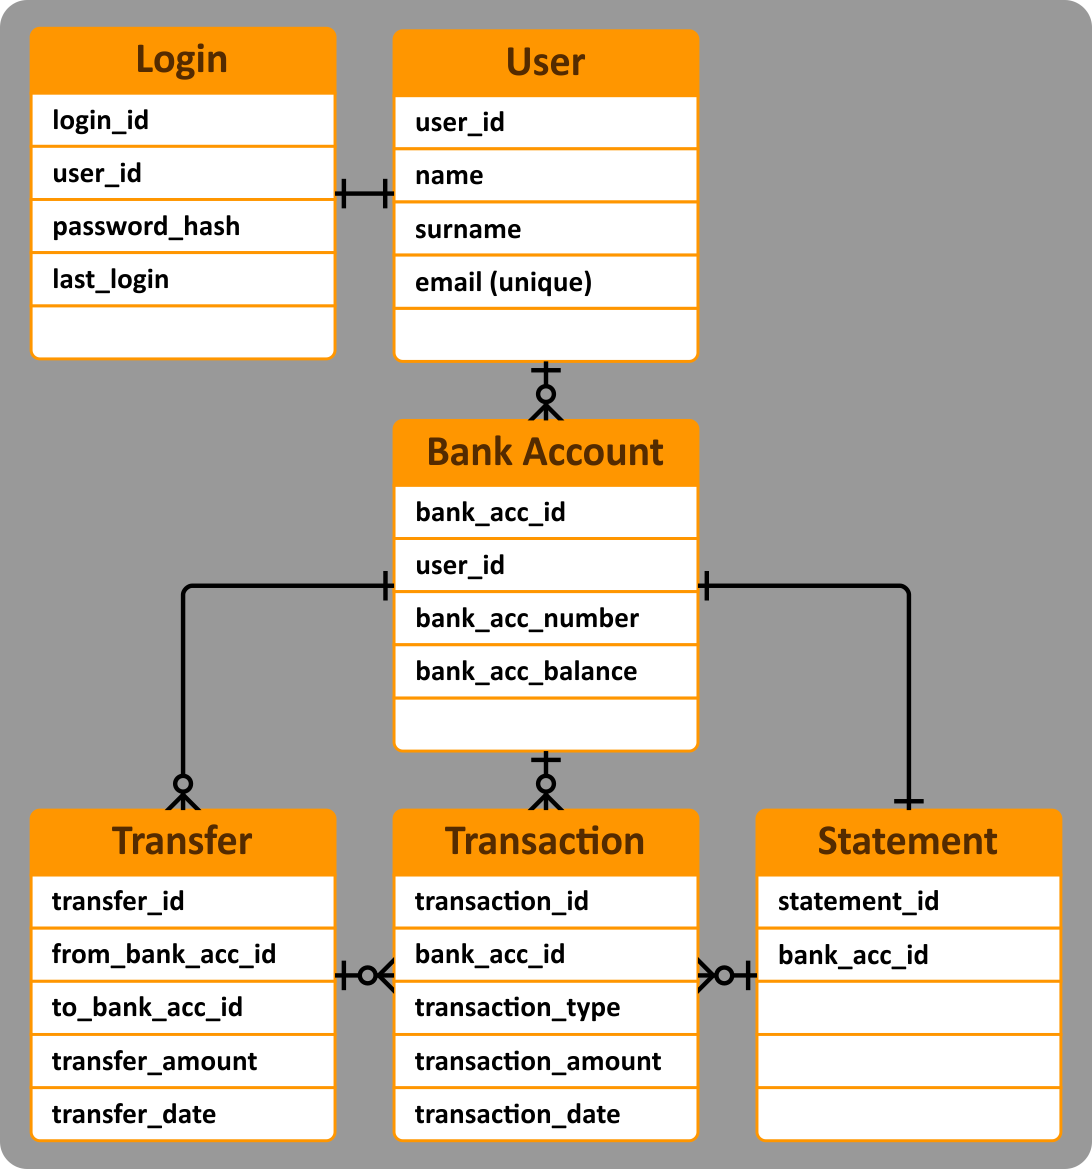
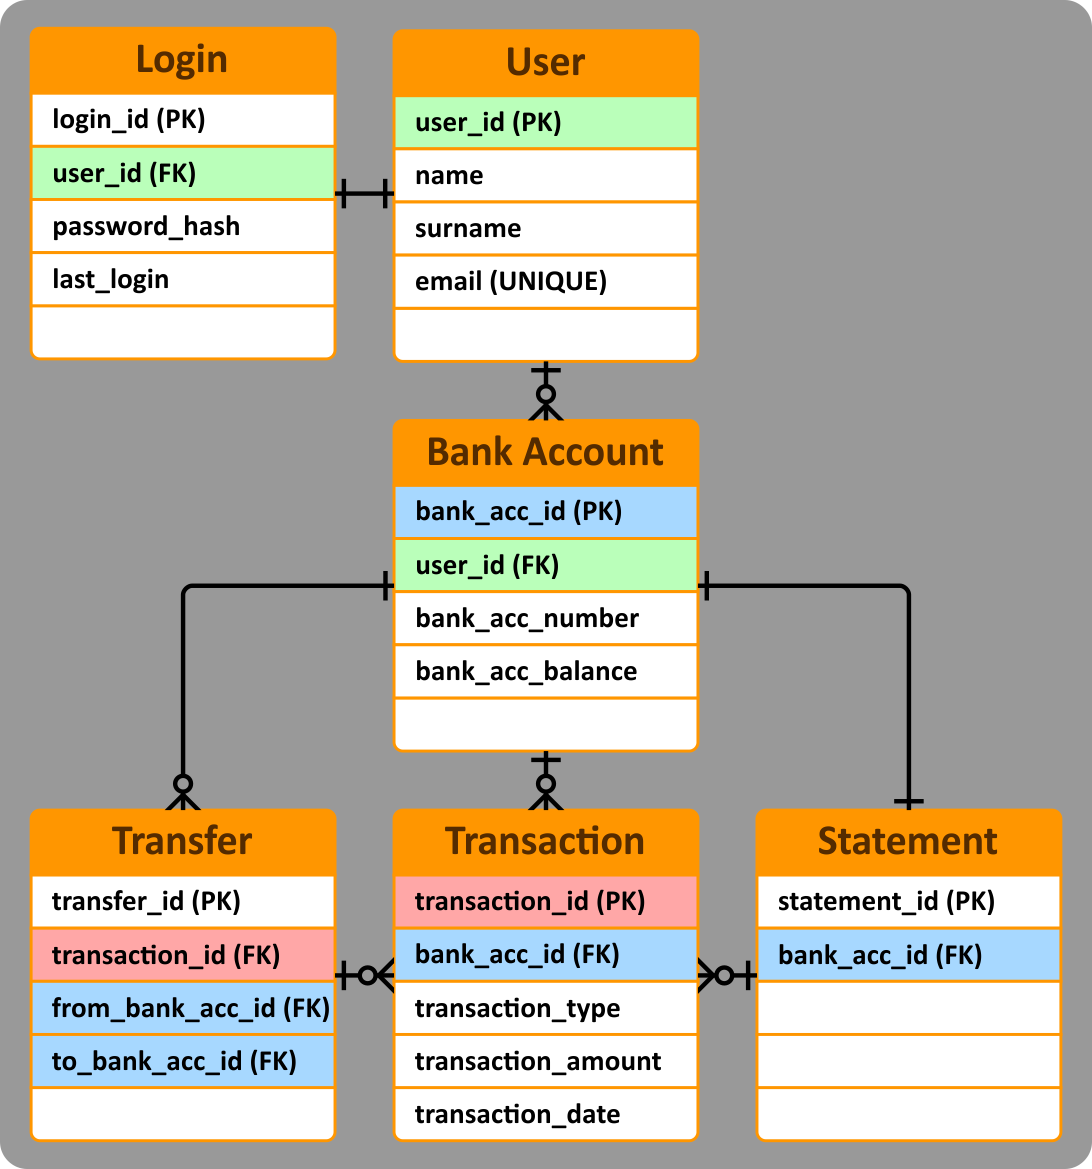
transfer done, but gotta check balance to fix now

diff --git a/BankAppFXMaven/src/main/java/in/BankAppFXMaven/view/TransferScene.java b/BankAppFXMaven/src/main/java/in/BankAppFXMaven/view/TransferScene.java
@@ -1,8 +1,16 @@
 package in.BankAppFXMaven.view;
 
+import java.sql.Date;
+import java.sql.Timestamp;
+import java.text.ParseException;
+import java.text.SimpleDateFormat;
+
 import in.BankAppFXMaven.controller.DatabaseController;
 import in.BankAppFXMaven.model.BankAccount;
 import in.BankAppFXMaven.model.LoggedUser;
+import in.BankAppFXMaven.model.Statement;
+import in.BankAppFXMaven.model.Transaction;
+import in.BankAppFXMaven.model.Transfer;
 import in.BankAppFXMaven.model.User;
 import javafx.application.Application;
 import javafx.scene.Scene;
@@ -213,6 +221,7 @@ public class TransferScene extends Application {
 
 					// get recipient and check if valid email
 					String recipientEmail = toTxtInput.getText();
+					dbController = DatabaseController.getInstance();
 
 					// get user by email
 					User recipientUser = dbController.getUserByEmail(recipientEmail);
@@ -224,25 +233,84 @@ public class TransferScene extends Application {
 
 						LoggedUser.getInstance().getBankAccount();
 
-						int transfererResponse = dbController.updateAccountBalance(-transferAmountInput,
+						// subtract from sender in the database
+						int senderResponse = dbController.updateAccountBalance(-transferAmountInput,
 								loggedUser.getUser());
-						//do db transaction entry of /\
+						// do db transaction entry of /\
+						// add to db transfer
 
-						if (transfererResponse == 1) {
+						if (senderResponse == 1) {
+							// add to recipient in the database
 							int recipientResponse = dbController.updateAccountBalance(transferAmountInput,
 									recipientUser);
-							//do db transaction entry of /\
 
 							if (recipientResponse == 1) {
+
+								Timestamp timeStamp = new java.sql.Timestamp(System.currentTimeMillis());
+
+//								timeStamp = convertTimeStampToCorrectFormat(timeStamp);
+
+								// create 2 transaction entries, 1 negative and 1 positive, to show each user
+								Transaction newSenderTransaction = new Transaction(
+										loggedUser.getBankAccount().getBankAccID(), "transfer", timeStamp,
+										-transferAmountInput);
+								Transaction newReceiverTransaction = new Transaction(RecipientBankAcc.getBankAccID(),
+										"transfer", timeStamp, transferAmountInput);
+
+								// upload sender & receiver transaction to database
+								int transactionResponse1 = dbController.addNewTransaction(newSenderTransaction);
+								int transactionResponse2 = dbController.addNewTransaction(newReceiverTransaction);
+
+								if (transactionResponse1 == 0) {
+									System.out.println("Couldn't add transaction entry to database.");
+								}
+								if (transactionResponse2 == 0) {
+									System.out.println("Couldn't add transaction entry to database.");
+								}
+
+								// download updated bank account after transfer
+								loggedUser
+										.setBankAccount(dbController.getBankAccByUserID(loggedUser.getUser().getId()));
+
+								// download updated transaction after transfer
+								Statement statement = loggedUser.getStatement();
+								statement.setTransactionList(dbController.getStatementTransactionList(statement));
+								loggedUser.setStatement(statement);
+
+								// get transaction where from_bank_acc_id is
+								// loggedUser.getBankAccount().getBankAccID() and date is timeStamp
+								Transaction doneSenderTransaction = dbController
+										.getTransaction(loggedUser.getBankAccount().getBankAccID(), timeStamp);
 								
-								toTxtInput.clear();
+								// get transactionId to add to new db transfer entry
+								Transfer newSenderTransfer = new Transfer(doneSenderTransaction.getTransactionID(),
+										loggedUser.getBankAccount().getBankAccID(), RecipientBankAcc.getBankAccID());
 								
-								Alert alert = new Alert(Alert.AlertType.INFORMATION);
-								alert.setTitle("Transference successful.");
-								alert.setHeaderText(null);
-								alert.setContentText("Transference successfull. You have transered €"
-										+ transferAmountInput + " to " + recipientEmail + ".");
-								alert.showAndWait();
+								
+								Transaction doneReceiverTransaction = dbController
+										.getTransaction(RecipientBankAcc.getBankAccID(), timeStamp);
+								
+								
+								Transfer newReceiverTransfer = new Transfer(doneReceiverTransaction.getTransactionID(),
+										loggedUser.getBankAccount().getBankAccID(), RecipientBankAcc.getBankAccID());
+								
+								
+								// add transfers entries of the transactions of this specific date
+								int transferSenderResponse = dbController.addNewTransfer(newSenderTransfer);
+								int transferReceiverResponse = dbController.addNewTransfer(newReceiverTransfer);
+
+								if (transferSenderResponse == 1 && transferReceiverResponse == 1) {
+									// clear the transfer amount input and show success dialog
+									toTxtInput.clear();
+									transferAmountTxtInput.clear();
+
+									Alert alert = new Alert(Alert.AlertType.INFORMATION);
+									alert.setTitle("Transference successful.");
+									alert.setHeaderText(null);
+									alert.setContentText("Transference successfull. You have transered €"
+											+ transferAmountInput + " to " + recipientEmail + ".");
+									alert.showAndWait();
+								}
 
 							} else {
 								Alert alert = new Alert(Alert.AlertType.ERROR);
@@ -308,4 +376,33 @@ public class TransferScene extends Application {
 		primaryStage.show();
 	}
 
+//	/**
+//	 * Java creates the Timestamp as "2024-08-03 10:04:36.59" (Counting
+//	 * milliseconds) this method converts not to have milliseconds since it's this
+//	 * way that the MySql gets stored, not to have error when trying to retrieve
+//	 * with milliseconds
+//	 * 
+//	 * @return formatted Timestamp
+//	 */
+//	public Timestamp convertTimeStampToCorrectFormat(Timestamp timestamp) {
+//		// Format the timestamp to the desired format
+//		SimpleDateFormat sdf = new SimpleDateFormat("yyyy-MM-dd HH:mm:ss");
+//		String formattedDate = sdf.format(timestamp);
+//
+//		return timestamp = convertStringToTimestamp(formattedDate);
+//	}
+//
+//	public static Timestamp convertStringToTimestamp(String dateString) {
+//		SimpleDateFormat dateFormat = new SimpleDateFormat("yyyy-MM-dd HH:mm:ss");
+//		try {
+//			// Parse the input string to a java.util.Date object
+//			java.util.Date parsedDate = dateFormat.parse(dateString);
+//			// Convert java.util.Date to java.sql.Timestamp
+//			return new Timestamp(parsedDate.getTime());
+//		} catch (ParseException e) {
+//			e.printStackTrace();
+//			System.out.println("Couldn't parse the date string.");
+//			return null;
+//		}
+//	}
 }

diff --git a/BankAppFXMaven/src/main/java/in/BankAppFXMaven/model/DatabaseDAO.java b/BankAppFXMaven/src/main/java/in/BankAppFXMaven/model/DatabaseDAO.java
@@ -10,6 +10,7 @@ import java.sql.ResultSet;
 import java.sql.SQLException;
 import java.sql.Statement;
 import java.sql.Timestamp;
+import java.text.SimpleDateFormat;
 import java.util.ArrayList;
 import java.util.Optional;
 import java.util.Properties;
@@ -204,7 +205,7 @@ public class DatabaseDAO {
 
 	public User getUserByEmail(String email) {
 
-		User user = new User();
+		User user = null;
 		try {
 			rs = st.executeQuery("SELECT * FROM user WHERE email = '" + email + "';");
 			rs.next();
@@ -412,7 +413,7 @@ public class DatabaseDAO {
 	}
 
 	/**
-	 * @param userId      of user who will get new surname
+	 * @param userId         of user who will get new surname
 	 * @param userNewSurname to replace old surname
 	 * @return 1 if successful, 0 if unsuccessful
 	 */
@@ -494,11 +495,57 @@ public class DatabaseDAO {
 					statementList.add(transaction);
 				}
 			} while (rs.next());
-		} catch (Exception e) {
+		} catch (SQLException e) {
 			System.out.println(e.getMessage());
 		}
 
 		return statementList;
+	}
+
+	/**
+	 * @param fromBankAccId to get transaction from
+	 * @param timeStampDate to get specific transaction
+	 * @return specific transaction
+	 */
+	public Transaction getTransaction(int fromBankAccId, Timestamp timeStampDate) {
+
+		SimpleDateFormat sdf = new SimpleDateFormat("yyyy-MM-dd HH:mm:ss");
+		String formattedDate = sdf.format(timeStampDate);
+		
+		Transaction transaction = null;
+		String query = "SELECT * FROM transaction WHERE bank_acc_id = " + fromBankAccId
+				+ " AND transaction_date = '" + formattedDate + "';";
+
+		rs = executeQueryRS(query);
+
+		try {
+			if (!rs.wasNull()) {
+				transaction = new Transaction();
+				transaction.setTransactionID(rs.getInt("transaction_id"));
+				transaction.setBankAccID(rs.getInt("bank_acc_id"));
+				transaction.setTransactionType(rs.getString("transaction_type"));
+				transaction.setTransactionAmount(rs.getDouble("transaction_amount"));
+				transaction.setTransactionDate(rs.getTimestamp("transaction_date"));
+			}
+		} catch (SQLException e) {
+			System.out.println(e.getMessage());
+		}
+		return transaction;
+	}
+
+	/**
+	 * @param newTransfer to insert to database
+	 * @return 1 if successful, 0 if not successful
+	 */
+	public int addNewTransfer(Transfer newTransfer) {
+
+		String query = "INSERT INTO transfer (transaction_id, from_bank_acc_id, to_bank_acc_id) VALUES ("
+				+ newTransfer.getTransactionID() + ", " + newTransfer.getFromBankAcc() + ", "
+				+ newTransfer.getToBankAcc() + ");";
+
+		int response = executeUpdateRS(query);
+		
+		return response;
 	}
 
 	/**
@@ -793,10 +840,9 @@ public class DatabaseDAO {
 
 				Transfer transfer = new Transfer();
 				transfer.setTransferID(rs.getInt("transfer_id"));
+				transfer.setTransactionID(rs.getInt("transaction_id"));
 				transfer.setFromBankAcc(rs.getInt("from_bank_acc_id"));
 				transfer.setToBankAcc(rs.getInt("to_bank_acc_id"));
-				transfer.setTransferAmount(rs.getDouble("transfer_amount"));
-				transfer.setTransferDate(rs.getTimestamp("transfer_date"));
 				transfers.add(transfer);
 			}
 
@@ -810,7 +856,7 @@ public class DatabaseDAO {
 
 	/**
 	 * @param amount to withdraw
-	 * @param user to get it's balance updated
+	 * @param user   to get it's balance updated
 	 * @return 1 if successful, 0 if unsuccessful
 	 */
 	public int updateAccountBalance(double amount, User user) {
@@ -820,8 +866,8 @@ public class DatabaseDAO {
 
 		double newBalance = userBalance + amount;
 
-		int updateResponse = db.executeUpdateRS("UPDATE bank_account SET bank_acc_balance = " + newBalance
-				+ " WHERE user_id = " + user.getId() + ";");
+		int updateResponse = db.executeUpdateRS(
+				"UPDATE bank_account SET bank_acc_balance = " + newBalance + " WHERE user_id = " + user.getId() + ";");
 
 		if (updateResponse == 1) {
 			return 1;
@@ -831,11 +877,14 @@ public class DatabaseDAO {
 	}
 
 	public int addNewTransaction(Transaction transaction) {
+		
+		SimpleDateFormat sdf = new SimpleDateFormat("yyyy-MM-dd HH:mm:ss");
+		String formattedDate = sdf.format(transaction.getTransactionDate());
 
 		int updateResponse = db.executeUpdateRS(
 				"INSERT INTO transaction (bank_acc_id, transaction_type, transaction_amount, transaction_date) VALUES ("
 						+ transaction.getBankAccID() + ", '" + transaction.getTransactionType() + "', "
-						+ transaction.getTransactionAmount() + ", '" + transaction.getTransactionDate() + "');");
+						+ transaction.getTransactionAmount() + ", '" + formattedDate + "');");
 
 		if (updateResponse == 1) {
 			return 1;

diff --git a/BankAppFXMaven/src/main/java/in/BankAppFXMaven/model/Transfer.java b/BankAppFXMaven/src/main/java/in/BankAppFXMaven/model/Transfer.java
@@ -1,14 +1,20 @@
 package in.BankAppFXMaven.model;
 
-import java.sql.Timestamp;
-
 public class Transfer {
 
 	private int transferID;
+	private int transactionID;
 	private int fromBankAcc;
 	private int toBankAcc;
-	private double transferAmount;
-	private Timestamp transferDate;
+	
+	public Transfer () {
+		
+	}
+	public Transfer (int transactionId, int fromBankAcc, int toBankAcc) {
+		this.transactionID = transactionId;
+		this.fromBankAcc = fromBankAcc;
+		this.toBankAcc = toBankAcc;
+	}
 	/**
 	 * @return the transferID
 	 */
@@ -40,33 +46,21 @@ public class Transfer {
 		return toBankAcc;
 	}
 	/**
+	 * @return the transactionID
+	 */
+	public int getTransactionID() {
+		return transactionID;
+	}
+	/**
+	 * @param transactionID the transactionID to set
+	 */
+	public void setTransactionID(int transactionID) {
+		this.transactionID = transactionID;
+	}
+	/**
 	 * @param toBankAcc the toBankAcc to set
 	 */
 	public void setToBankAcc(int toBankAcc) {
 		this.toBankAcc = toBankAcc;
-	}
-	/**
-	 * @return the transferAmount
-	 */
-	public double getTransferAmount() {
-		return transferAmount;
-	}
-	/**
-	 * @param transferAmount the transferAmount to set
-	 */
-	public void setTransferAmount(double transferAmount) {
-		this.transferAmount = transferAmount;
-	}
-	/**
-	 * @return the TimeStamp
-	 */
-	public Timestamp getTransferDate() {
-		return transferDate;
-	}
-	/**
-	 * @param TimeStamp the TimeStamp to set
-	 */
-	public void setTransferDate(Timestamp date) {
-		this.transferDate = date;
 	}
 }

diff --git a/BankAppFXMaven/src/main/java/in/BankAppFXMaven/controller/DatabaseController.java b/BankAppFXMaven/src/main/java/in/BankAppFXMaven/controller/DatabaseController.java
@@ -134,6 +134,19 @@ public class DatabaseController {
 	public ArrayList<Transaction> getStatementTransactionList(Statement statement) {
 		return db.getStatementTransactionList(statement);
 	}
+	
+	public int addNewTransfer (Transfer newTransfer) {
+		return db.addNewTransfer(newTransfer);
+	}
+	
+	/**
+	 * @param fromBankAccId to get transaction from
+	 * @param timeStampDate to get specific transaction
+	 * @return specific transaction
+	 */
+	public Transaction getTransaction(int fromBankAccId, Timestamp timeStampDate) {
+		return db.getTransaction(fromBankAccId, timeStampDate);
+	}
 
 	public boolean accNumberExists(int randomNumber) {
 		// TODO Auto-generated method stub

diff --git a/BankAppFXMaven/src/main/java/in/BankAppFXMaven/model/DbUserSection.java b/BankAppFXMaven/src/main/java/in/BankAppFXMaven/model/DbUserSection.java
@@ -61,10 +61,11 @@ public class DbUserSection {
 	 */
 	public User getUser(ResultSet rs) {
 
-		User newUser = new User();
+		User newUser = null;
 
 		try {
 			if (!rs.wasNull()) {
+				newUser = new User();
 				newUser.setId(rs.getInt("user_id"));
 				newUser.setName(rs.getString("name"));
 				newUser.setSurname(rs.getString("surname"));
